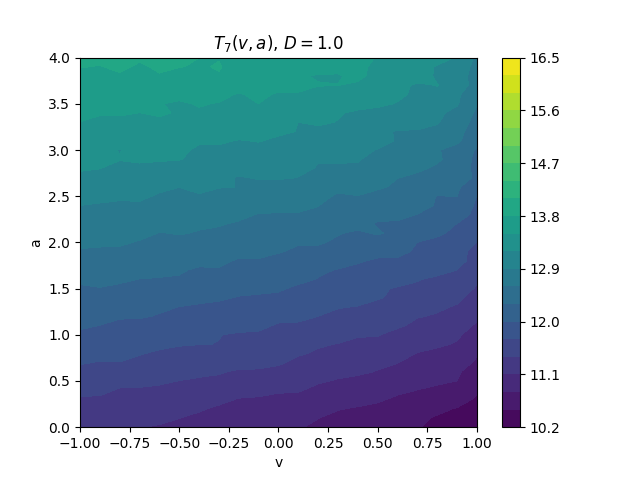
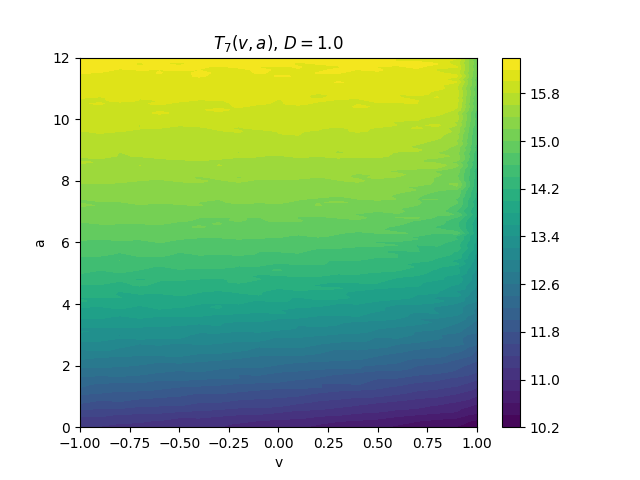
more pde stuff

diff --git a/mrt_phase_pde/pde/own_method/get_T_N_single.py b/mrt_phase_pde/pde/own_method/get_T_N_single.py
@@ -6,46 +6,34 @@ import matplotlib.pyplot as plt
 from mrt_phase_numeric.src.update_equ.update import integrate_forwards
 from mrt_phase_numeric.src.config import equation_config
 from mrt_phase_pde.pde.own_method.src.exit_point_distribution.exit_point_distribution import ExitPointDistribution
-from mrt_phase_pde.pde.own_method.src.T_0.T_0 import T_0
+from mrt_phase_pde.pde.own_method.src.T_0.T_0 import T_0 as T_0_class
 from mrt_phase_pde.pde.own_method.src.T_0.T_N import T_N as T_N_class
-from mrt_phase_numeric.isochrones.plot_isochrones.plot_util import load_isochrones
+from mrt_phase_numeric.isochrones.plot_isochrones.plot_util import load_isochrones, plot_isochrones
 
 mu = equation_config['mu']
 v_th = equation_config['v_th']
 tau_a = equation_config['tau_a']
 Delta_a = equation_config['delta_a']
 
-D = .0
+D = 0.0
 
 v_min = -1
 v_max = 1
 a_min = 0
 a_max = 3
 
-n_v = int(v_max - v_min) * 20 + 1
-n_a = int(a_max - a_min) * 20 + 1
 
-v = np.linspace(v_min, v_max, n_v)
-a = np.linspace(a_min, a_max, n_a)
-
-
-def plot_isochrones(isochrones_list, draw=None):
-    legend_str = []
-    for key in isochrones_list.keys():
-        curves = isochrones_list[key]
-        for i, curve in enumerate(curves):
-            if curve.points.any():
-                if draw:
-                    plt.plot(curve[:, 0], curve[:, 1], draw)
-                else:
-                    plt.plot(curve[:, 0], curve[:, 1])
-
-
-if __name__ == '__main__':
+def get_T_N(l_max=None):
     prob = ExitPointDistribution.load(f'data/epd_sim_D_{D}.pickle')
     # T_0 = T_0.load(f'data/T_0_D_{D}_sim.pickle')
-    T_0 = T_0.load(f'data/T_0_D_{D}_sim_n_thr_1.pickle')
+    T_0 = T_0_class.load(f'data/T_0_D_{D}_sim_n_thr_1.pickle')
     # T_0 = T_0.load('data/T_0_D_0.25_sim_n_thr_1.pickle')
+
+    # just for saving T_0 as T_N, hackish
+    if l_max == -1:
+        t_n = T_N_class(T_0.v, T_0.a, T_0, l_max + 1)
+        t_n.save(f'result\\T_N_{l_max + 1}_D_{D}.pickle')
+
 
     v = T_0.v
     a = T_0.a
@@ -58,15 +46,21 @@ if __name__ == '__main__':
     T_N_all = [T_N_1]
 
     a_max = np.max(T_0.a)
+    a_new = copy.copy(a)
 
-    l_max = int(a_max) - 4 # 5
+    if l_max is None:
+         l_max = int(a_max) - 4  # 5
+
+    # in case l is 0
+    l = l_max
 
     for l in range(l_max):
         print(f'l: {l}')
         a_max -= 1
 
-        n_a = int(a_max - a_min) * 20 + 1
-        a_new = np.linspace(a_min, a_max, n_a)
+        # n_a = int(a_max - a_min) * 20 + 1
+        # a_new = np.linspace(a_min, a_max, n_a)
+        a_new = a_new[:np.where(a_new == a_max)[0][0] + 1]
         idx_a = np.where((T_0.a <= Delta_a + a_max) & (T_0.a >= Delta_a))
         # a_bins = np.insert(a, len(a), a[-1] + np.diff(a)[0])
 
@@ -97,12 +91,13 @@ if __name__ == '__main__':
     plt.title(f'$(T_N(0, a) - T_{{N-1}}(0, a))$ for various $N$, $D={D}$')
     plt.xlabel('a')
     plt.ylabel('$\Delta t$')
-    plt.legend([f'$T_{{{i+1}}}(0, a) - T_{{{i}}}(0, a)$' for i in range(len(T_N_all))])
+    plt.legend([f'$T_{{{i + 1}}}(0, a) - T_{{{i}}}(0, a)$' for i in range(len(T_N_all))])
     plt.savefig(f'img\\difference_in_T_N_at_0_D_{D}.png')
 
     a_max -= 1
-    n_a = int(a_max - a_min) * 20 + 1
-    a_new = np.linspace(a_min, a_max, n_a)
+    # n_a = int(a_max - a_min) * 20 + 1
+    # a_new = np.linspace(a_min, a_max, n_a)
+    a_new = a_new[:np.where(a_new == a_max)[0][0] + 1]
     idx_a = np.where((T_0.a <= Delta_a + a_max) & (T_0.a >= Delta_a))
     a_bins = np.insert(a_new, len(a_new), a_new[-1] + np.diff(a_new)[0])
 
@@ -140,7 +135,12 @@ if __name__ == '__main__':
     det_file_paths = '..\\..\\..\\mrt_phase_numeric\\data\\results\\isochrones\\from_timeseries_grid\\deterministic\\D_0.0'
     stochastic = f'..\\..\\..\\mrt_phase_numeric\\data\\results\\isochrones\\from_timeseries\\stochastic\\D_{D}'
 
-    isochrones = load_isochrones(det_file_paths)
+    # isochrones = load_isochrones(det_file_paths)
     # isochrones = load_isochrones(stochastic)
-    plot_isochrones(isochrones, 'g--')
+    # plot_isochrones(isochrones, plt, 'g--')
     plt.xlim([-1,1])
+
+
+if __name__ == '__main__':
+    get_T_N()
+

diff --git a/mrt_phase_pde/pde/own_method/extract_curves_from_T_N.py b/mrt_phase_pde/pde/own_method/extract_curves_from_T_N.py
@@ -1,0 +1,68 @@
+import copy
+
+import numpy as np
+import matplotlib.pyplot as plt
+import math
+
+from mrt_phase_numeric.src.update_equ.update import integrate_forwards
+from mrt_phase_numeric.src.config import equation_config
+from mrt_phase_pde.pde.own_method.src.exit_point_distribution.exit_point_distribution import ExitPointDistribution
+from mrt_phase_pde.pde.own_method.src.T_0.T_0 import T_0
+from mrt_phase_pde.pde.own_method.src.T_0.T_N import T_N as T_N_class
+from mrt_phase_numeric.src.DataTypes.DataTypes import filepaths
+from mrt_phase_numeric.isochrones.plot_isochrones.plot_util import load_isochrones, plot_isochrones
+from mrt_phase_numeric.src.util.save_util import read_curve_from_file
+from mrt_phase_numeric.src.config import equation_config
+
+limit_cycle_file_path = filepaths['limit_cycle_path']
+limit_cycle = read_curve_from_file(limit_cycle_file_path)
+
+D = .5
+
+
+def find_nearest(array, value):
+    idx = np.searchsorted(array, value, side="left")
+    if idx > 0 and (idx == len(array) or math.fabs(value - array[idx-1]) < math.fabs(value - array[idx])):
+        return idx-1
+    else:
+        return idx
+
+
+if __name__ == '__main__':
+    # T_N = T_N_class.load(f'data/T_0_D_{D}_sim_n_thr_15.pickle')
+
+    T_N = T_N_class.load(f'result/T_N_15_D_{D}.pickle')
+
+    phi_ = np.linspace(0.0, 1, 11)
+    levels = []
+
+    for phi in phi_:
+        point = limit_cycle[int(np.floor((phi * (len(limit_cycle)-1)))), :]
+
+        idx_v = find_nearest(T_N.v, point[0])
+        idx_a = find_nearest(T_N.a, point[1])
+
+        levels.append(T_N[idx_v, idx_a])
+
+    __x, __y = np.meshgrid(T_N.v, T_N.a)
+
+    plt.figure()
+    plt.contour(__x, __y, T_N.T.transpose(), levels=np.sort(levels)[1:])  # , v_min=-30, v_max=30)
+    plt.colorbar()
+    plt.xlabel('v')
+    plt.ylabel('a')
+    plt.ylim([0, 4])
+
+    plt.plot(limit_cycle[:, 0], limit_cycle[:, 1], 'g.')
+
+
+    det_file_paths = '..\\..\\..\\mrt_phase_numeric\\data\\results\\isochrones\\from_timeseries_grid\\deterministic\\D_0.0'
+    stochastic = f'..\\..\\..\\mrt_phase_numeric\\data\\results\\isochrones\\from_timeseries\\stochastic\\D_{D}'
+
+    # isochrones = load_isochrones(det_file_paths)
+    # isochrones = load_isochrones(stochastic)
+    # plot_isochrones(isochrones, plt, 'g--')
+    # plt.xlim([-1,1])
+
+
+

diff --git a/mrt_phase_pde/pde/own_method/plot_T_N.py b/mrt_phase_pde/pde/own_method/plot_T_N.py
@@ -8,22 +8,10 @@ from mrt_phase_numeric.src.config import equation_config
 from mrt_phase_pde.pde.own_method.src.exit_point_distribution.exit_point_distribution import ExitPointDistribution
 from mrt_phase_pde.pde.own_method.src.T_0.T_0 import T_0
 from mrt_phase_pde.pde.own_method.src.T_0.T_N import T_N as T_N_class
-from mrt_phase_numeric.isochrones.plot_isochrones.plot_util import load_isochrones
+from mrt_phase_numeric.isochrones.plot_isochrones.plot_util import load_isochrones, plot_isochrones
 
 
 D = 0.0
-
-
-def plot_isochrones(isochrones_list, draw=None):
-    legend_str = []
-    for key in isochrones_list.keys():
-        curves = isochrones_list[key]
-        for i, curve in enumerate(curves):
-            if curve.points.any():
-                if draw:
-                    plt.plot(curve[:, 0], curve[:, 1], draw)
-                else:
-                    plt.plot(curve[:, 0], curve[:, 1])
 
 
 if __name__ == '__main__':
@@ -51,6 +39,6 @@ if __name__ == '__main__':
     stochastic = f'..\\..\\..\\mrt_phase_numeric\\data\\results\\isochrones\\from_timeseries\\stochastic\\D_{D}'
 
     isochrones = load_isochrones(det_file_paths)
-    isochrones = load_isochrones(stochastic)
-    # plot_isochrones(isochrones, 'g--')
+    # isochrones = load_isochrones(stochastic)
+    plot_isochrones(isochrones, plt, 'g--')
     plt.xlim([-1,1])

diff --git a/mrt_phase_pde/pde/own_method/compare_multiple_T_N.py b/mrt_phase_pde/pde/own_method/compare_multiple_T_N.py
@@ -1,0 +1,41 @@
+import matplotlib.pyplot as plt
+import numpy as np
+
+from mrt_phase_pde.pde.own_method.src.T_0.T_0 import T_0
+from mrt_phase_pde.pde.own_method.src.T_0.T_N import T_N
+
+D = 0.0
+
+n = list(range(1, 10))
+diff_mean = []
+diff_max = []
+diff_min = []
+
+for i in n:
+    n_1 = i
+    n_2 = i-1
+
+    T_1 = f'result\\T_N_{n_1}_D_{D}.pickle'
+    T_2 = f'result\\T_N_{n_2}_D_{D}.pickle'
+
+    t_1 = T_N.load(T_1)
+    t_2 = T_0.load(T_2)
+
+    max_n_a = 31
+
+    diff = t_1.T[:, :max_n_a] - t_2.T[:, :max_n_a]
+
+    diff_mean.append(np.mean(diff))
+    diff_max.append(np.max(diff))
+    diff_min.append(np.min(diff))
+
+plt.plot(n, diff_mean, label='mean($T_N(v,a) - T_{N-1}(v,a)$)')
+plt.plot(n, diff_max, label='max($T_N(v,a) - T_{N-1}(v,a)$)')
+plt.plot(n, diff_min, label='min($T_N(v,a) - T_{N-1}(v,a)$)')
+plt.xlabel('N')
+plt.ylabel('$T_N(v,a) - T_{{N-1}}(v,a)$')
+plt.title(f'$D = {D}$')
+plt.legend()
+
+plt.savefig(f'img\\T_N_diff_over_N_D_{D}.png')
+

diff --git a/mrt_phase_pde/pde/MFPT/MFPT_problem_from_cao.py b/mrt_phase_pde/pde/MFPT/MFPT_problem_from_cao.py
@@ -8,16 +8,15 @@ v_th = equation_config['v_th']
 tau_a = equation_config['tau_a']
 Delta_a = equation_config['delta_a']
 
-T_bar = 2.0
-D = 0.25
+D = 0.0
 
 x_min = -1
 x_max = 1
 y_min = 0
 y_max = 10
 
-n_x = int(x_max - x_min) * 10 + 1
-n_y = int(y_max - y_min) * 10 + 1
+n_x = int(x_max - x_min) * 20 + 1
+n_y = int(y_max - y_min) * 20 + 1
 
 x = np.linspace(x_min, x_max, n_x)
 y = np.linspace(y_min, y_max, n_y)
@@ -128,9 +127,6 @@ def get_A_b():
     L_dagger = np.array(L_dagger)
 
     return L_dagger, b
-
-# b[jump] = -1 + T_bar * (f(x_all[jump], y_all[jump])/(2*h) + D/h**2)
-# b[right_jump] = -1 + T_bar * (f(x_all[right_jump],y_all[right_jump])/(2*h) - D/h**2)
 
 
 def T_to_T_matrix(T):

diff --git a/mrt_phase_pde/pde/own_method/src/get_T_0_and_exit_point_distribution.py b/mrt_phase_pde/pde/own_method/src/get_T_0_and_exit_point_distribution.py
@@ -13,7 +13,7 @@ v_th = equation_config['v_th']
 tau_a = equation_config['tau_a']
 Delta_a = equation_config['delta_a']
 
-D = 0.0
+D = .0
 dt = 0.01
 
 v_min = -1
@@ -33,7 +33,7 @@ a = np.linspace(a_min, a_max, n_a)
 v_thr = 1.0
 n_trajectories = 1
 
-n_thr_crossings = 15
+n_thr_crossings = 1
 
 
 def find_nearest(array, value):
@@ -70,7 +70,6 @@ def get_rt_a_distr(_v, _a):
 
     idx = find_nearest(a_bins, a_[-1])
 
-
     p = hist[0]
 
     mean_rt = np.mean(rt)
@@ -95,7 +94,6 @@ def _get():
 
 
 if __name__=='__main__':
-
     T, prob = _get()
 
     T_0_ = T_0(v, a, T)

diff --git a/mrt_phase_pde/pde/own_method/compare_two_T_N.py b/mrt_phase_pde/pde/own_method/compare_two_T_N.py
@@ -6,19 +6,19 @@ from mrt_phase_pde.pde.own_method.src.T_0.T_N import T_N
 
 D = 0.25
 
-n_1 = 15
+n_1 = 16
 n_2 = 15
 
 # T sim vs T pde 2 difference
-T_1 = f'result\\T_N_{n_1}_D_0.0.pickle'
+T_1 = f'result\\T_N_{n_1}_D_{D}.pickle'
 # T_1 = f'data\\T_0_D_{D}.pickle'
 # T_2 = f'data\\T_0_D_{D}_sim_n_thr_10.pickle'
-T_2 = f'result\\T_N_{n_2}_D_1.0.pickle'
+T_2 = f'result\\T_N_{n_2}_D_{D}.pickle'
 
 t_1 = T_N.load(T_1)
 t_2 = T_0.load(T_2)
 
-max_n_a = 41
+max_n_a = 31
 
 diff = t_2.T[:, :max_n_a] - t_1.T[:, :max_n_a]
 

diff --git a/mrt_phase_numeric/isochrones/plot_isochrones/plot_util.py b/mrt_phase_numeric/isochrones/plot_isochrones/plot_util.py
@@ -49,3 +49,14 @@ def read_dat(filename):
             data.append(line)
 
     return np.array(data)
+
+
+def plot_isochrones(isochrones_list, plt, draw=None):
+    for key in isochrones_list.keys():
+        curves = isochrones_list[key]
+        for i, curve in enumerate(curves):
+            if curve.points.any():
+                if draw:
+                    plt.plot(curve[:, 0], curve[:, 1], draw)
+                else:
+                    plt.plot(curve[:, 0], curve[:, 1])

diff --git a/mrt_phase_pde/pde/own_method/get_multiple_T_N.py b/mrt_phase_pde/pde/own_method/get_multiple_T_N.py
@@ -1,0 +1,5 @@
+from mrt_phase_pde.pde.own_method.get_T_N_single import get_T_N
+
+if __name__=='__main__':
+    for i in range(-1, 15):
+        get_T_N(i)
